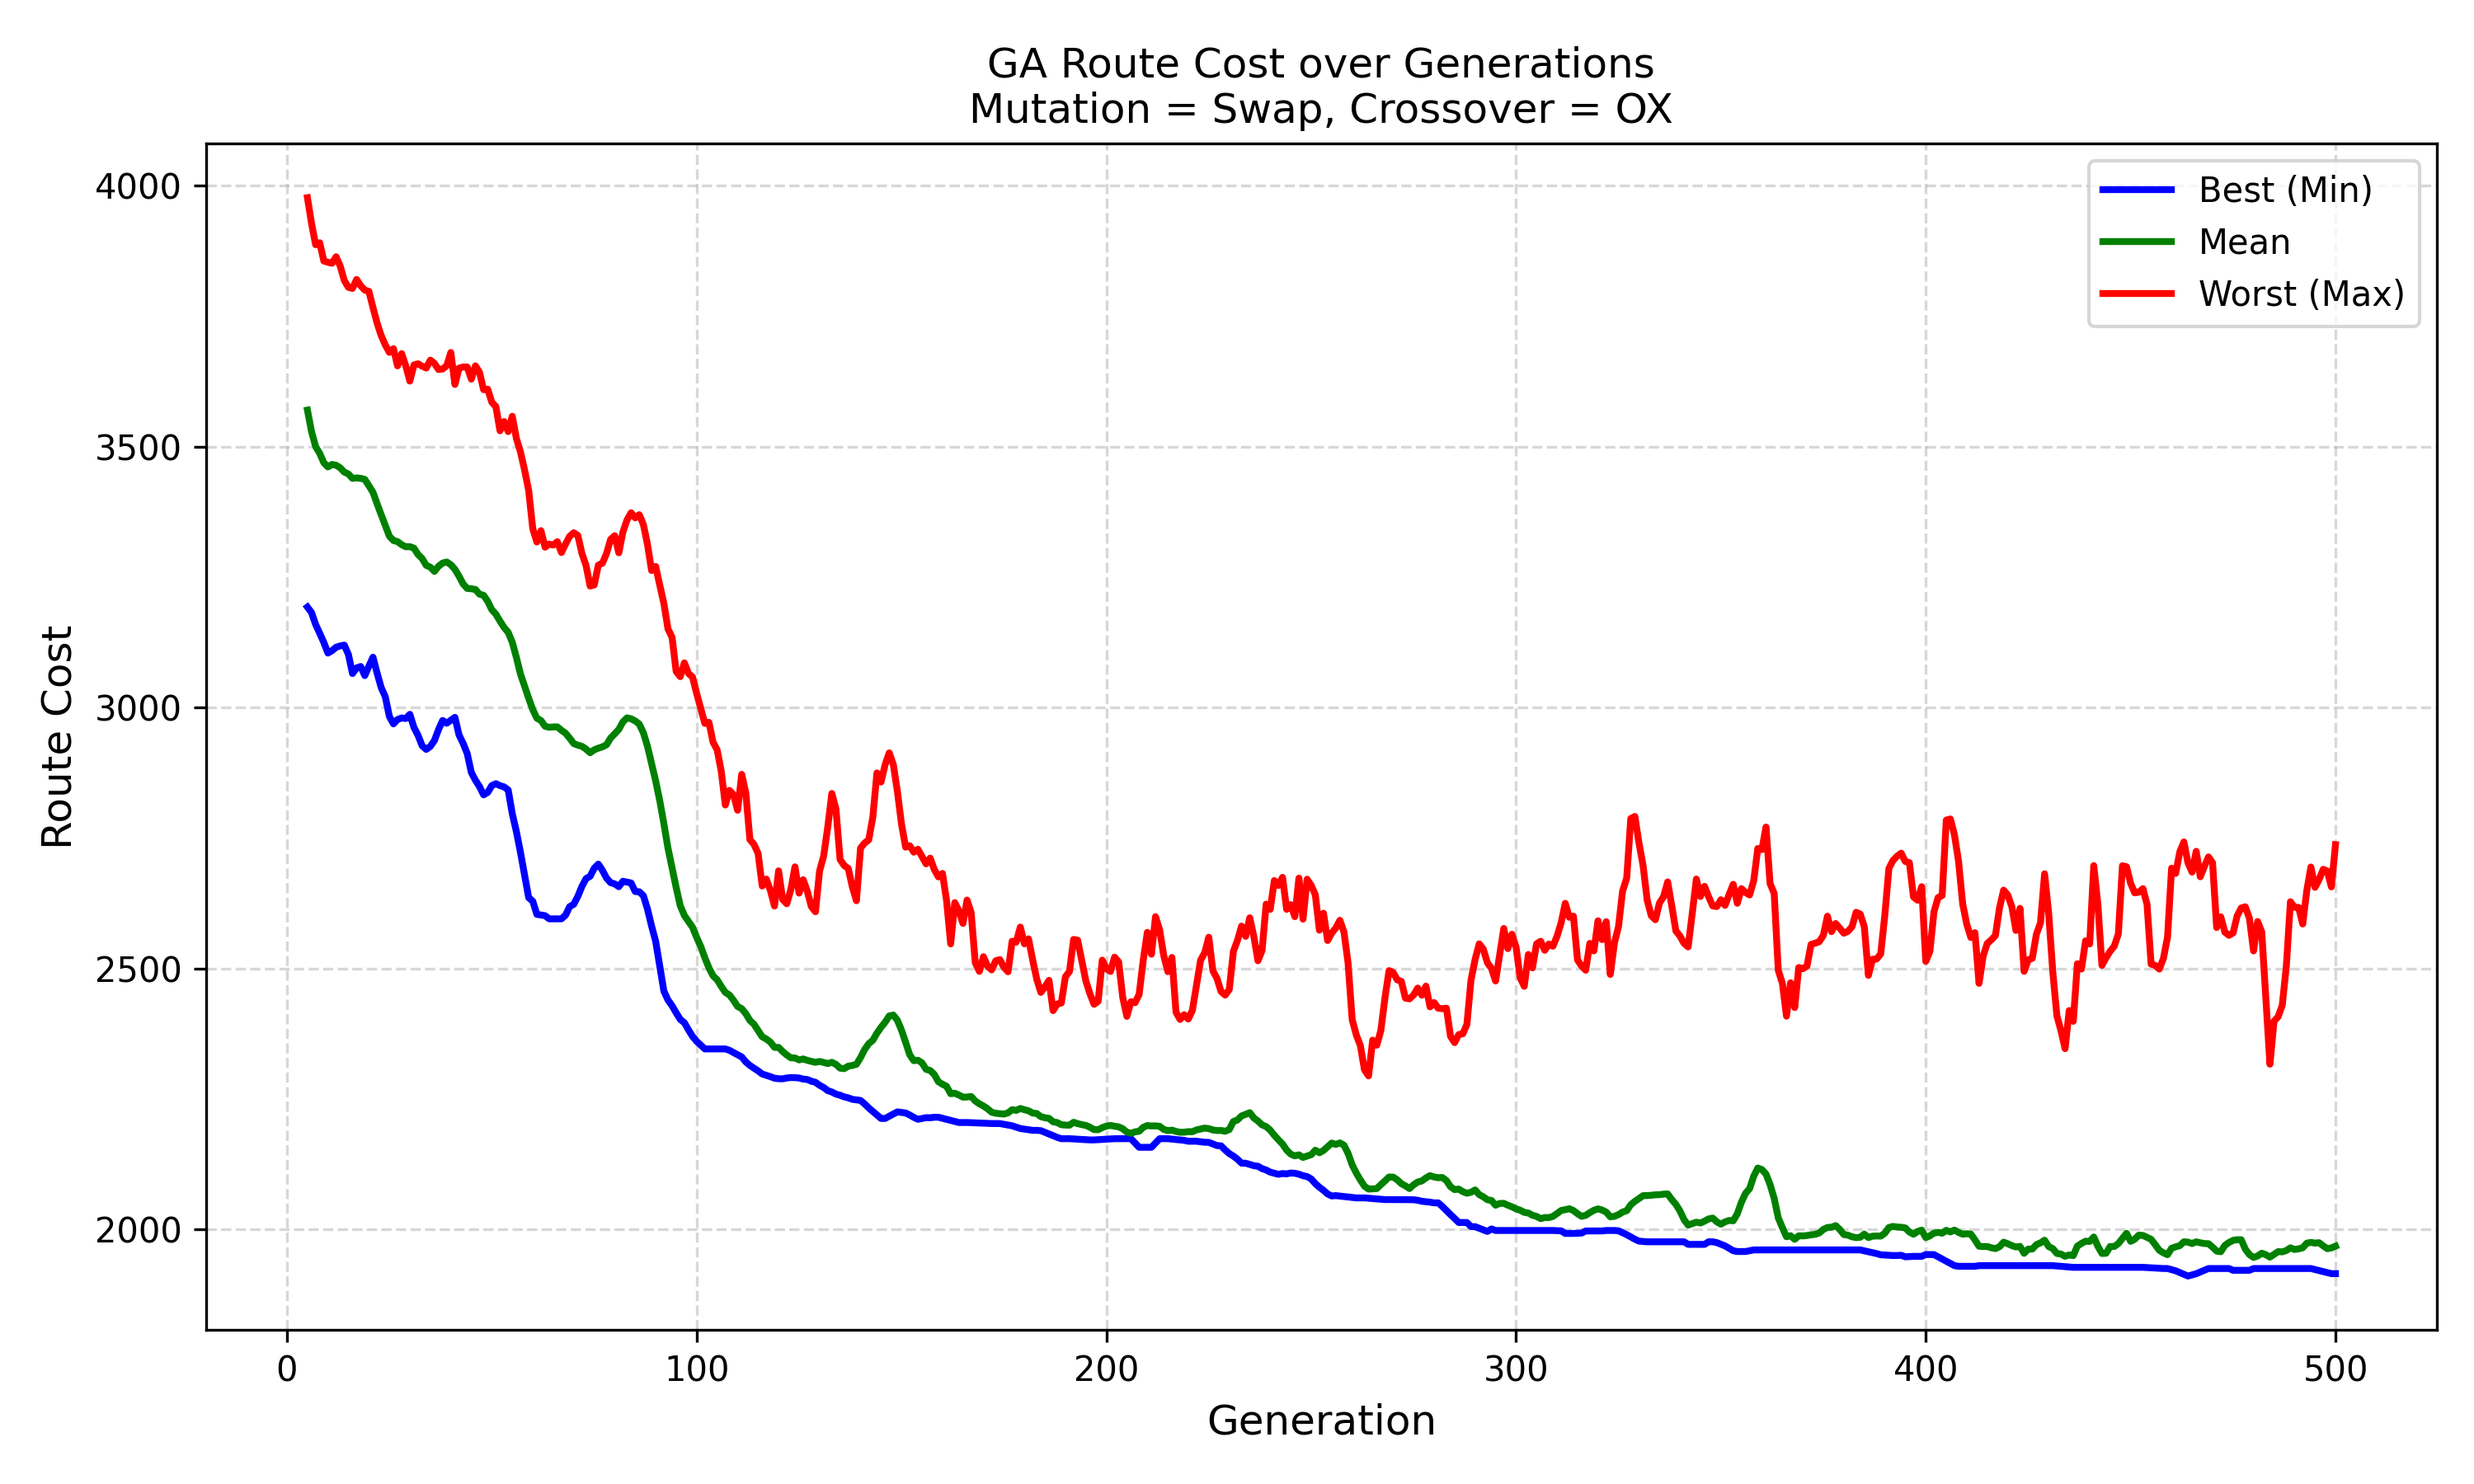
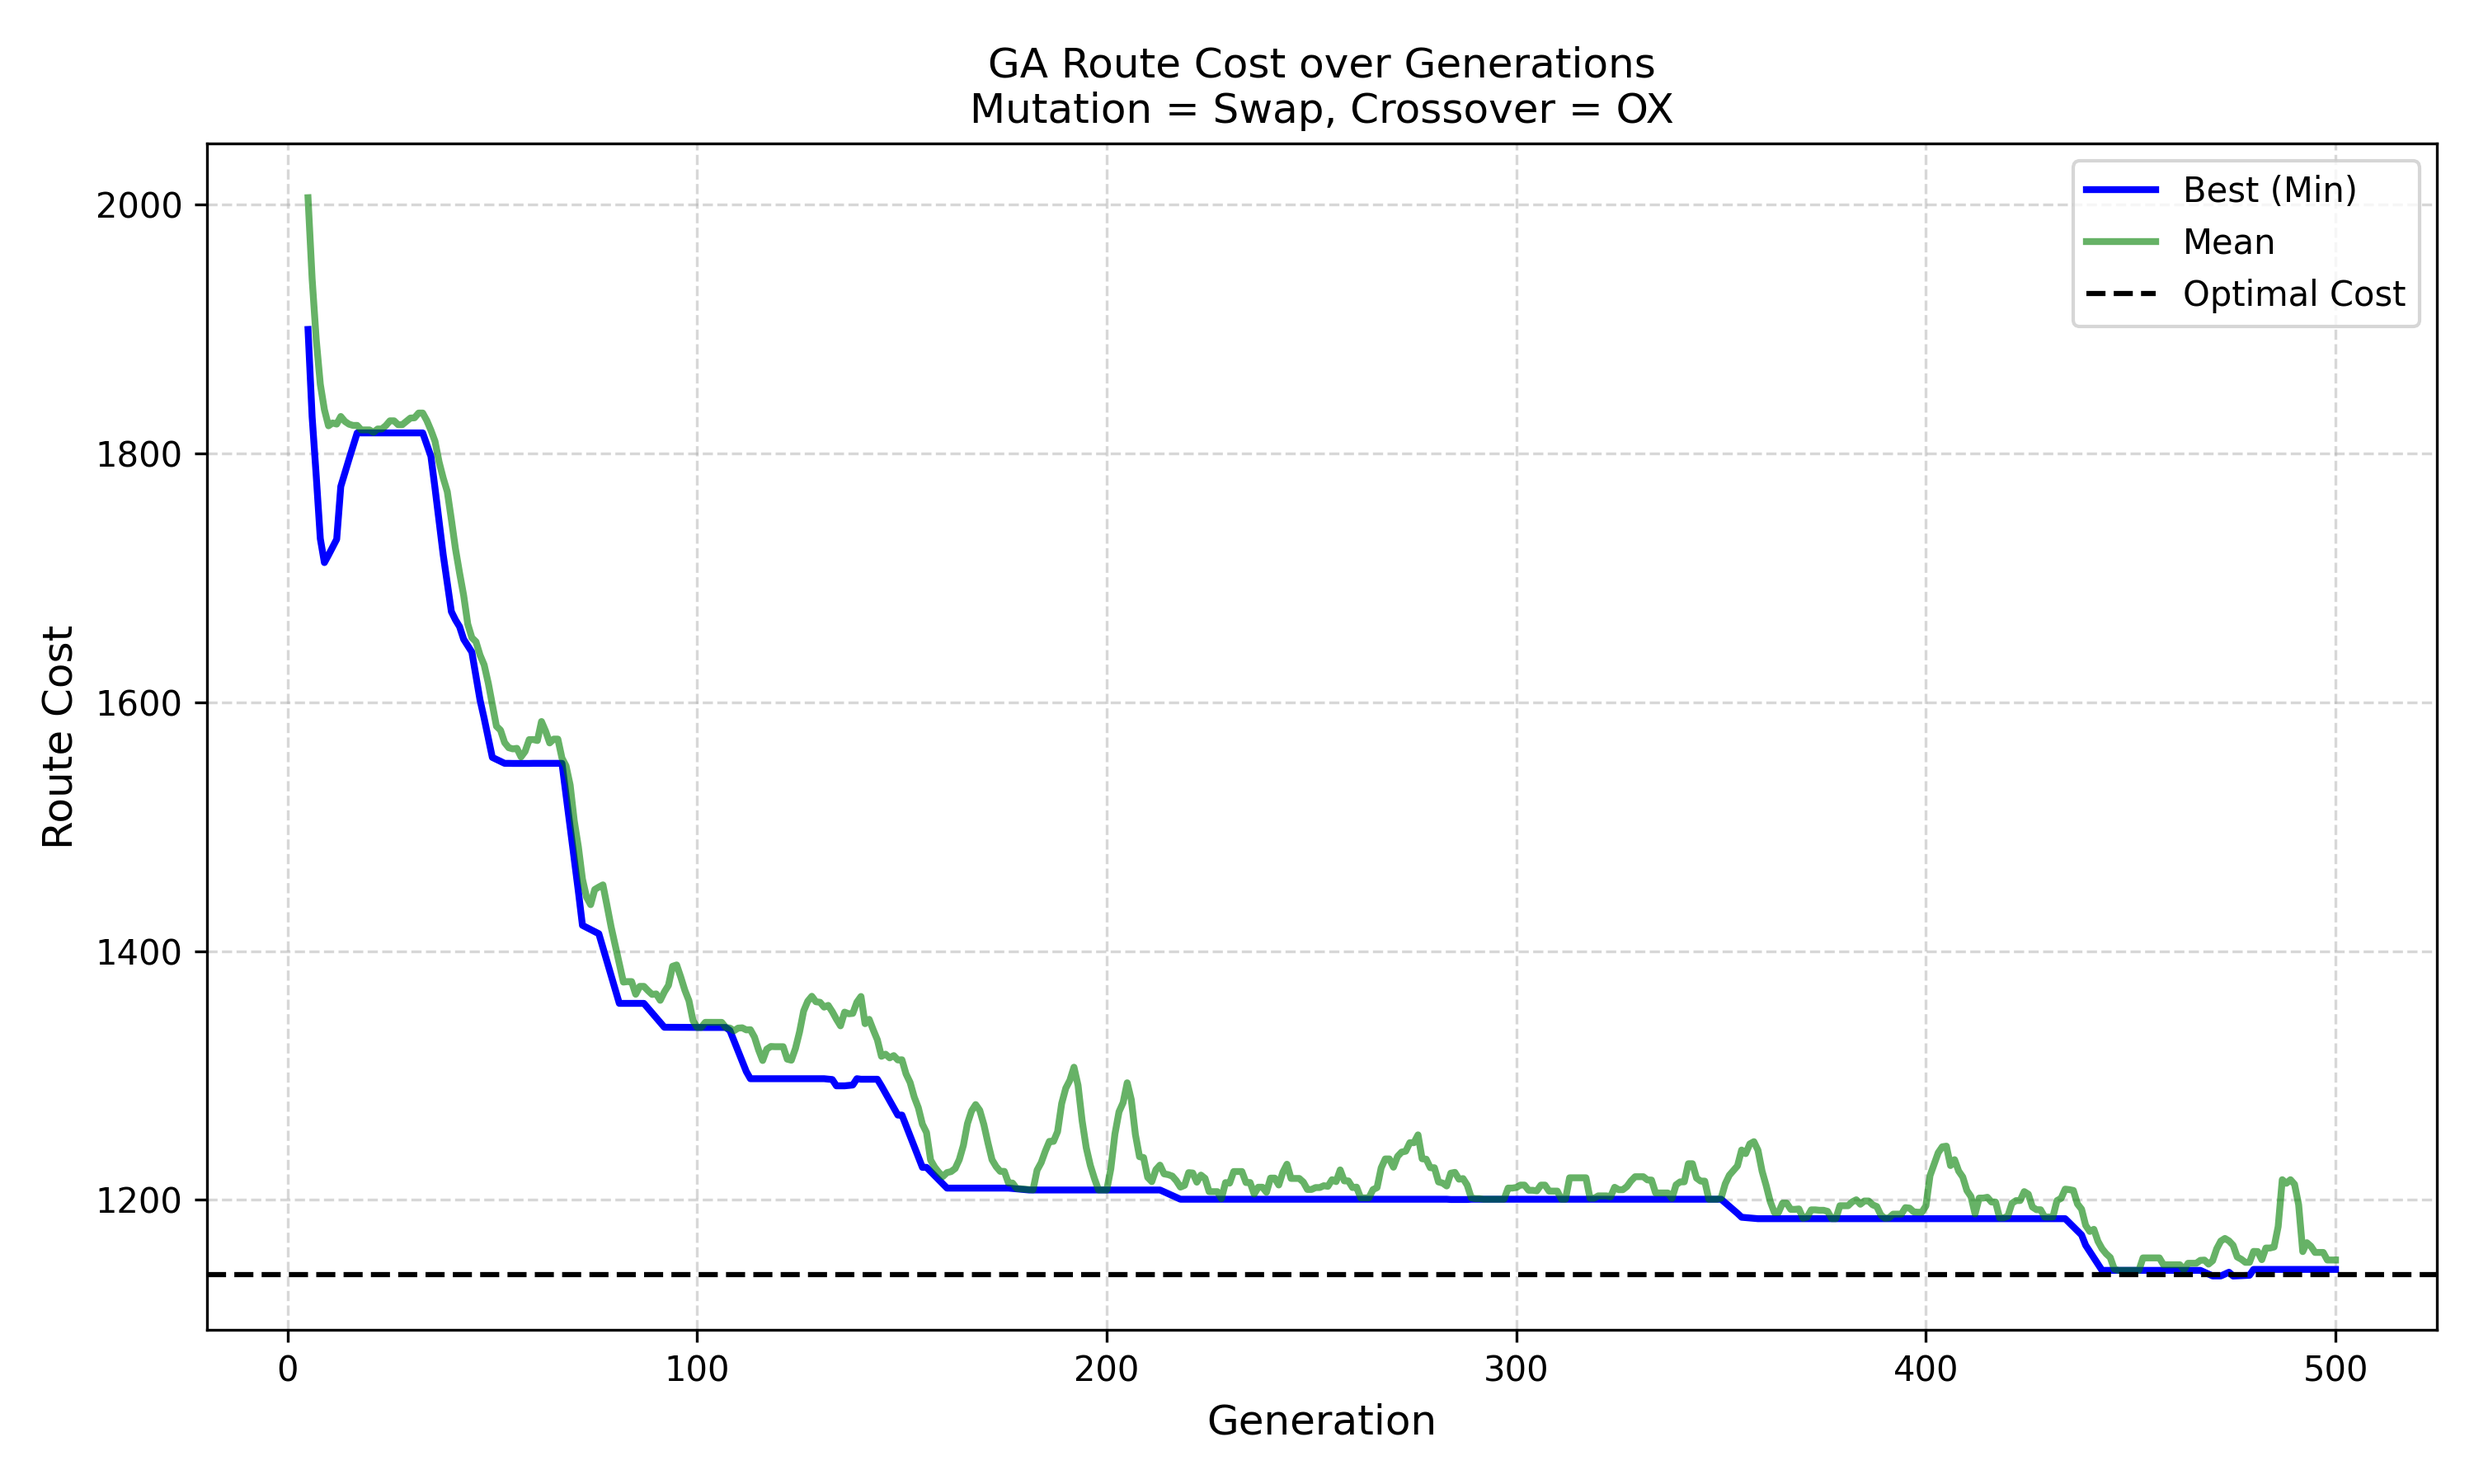
Compare the results
Compare the results

diff --git a/ga_fitness_plotter.py b/ga_fitness_plotter.py
@@ -1,146 +1,26 @@
-import os
-import csv
 import numpy as np
 import matplotlib.pyplot as plt
 from cvrp_solver import CVRPData
-from greedy_algorithm import GreedyCVRP
-from random_algorithm import RandomSearchCVRP
-from tabu_algorithm import TabuSearchCVRP
 from genetic_algorithm import GeneticAlgorithmCVRP
-
-# Paths to data files
-DATA_FOLDER = "data"
-OPTIMAL_FOLDER = "data/optimal_data"
-
-# List all VRP files in the data directory
-vrp_files = [f for f in os.listdir(DATA_FOLDER) if f.endswith(".vrp")]
-
-# Store results for printing
-results = []
-
-# Prepare CSV file
-os.makedirs("results", exist_ok=True)
-COMPARISON_CSV = "results/algorithm_comparison_results.csv"
-
-# Write header
-with open(COMPARISON_CSV, mode="w", newline="") as file:
-    writer = csv.writer(file)
-    writer.writerow([
-        "File Name", "Optimal", "Greedy",
-        "Rand Best", "Rand Worst", "Rand Avg", "Rand Std",
-        "Tabu Best", "Tabu Worst", "Tabu Avg", "Tabu Std",
-        "GA Best", "GA Worst", "GA Avg", "GA Std"
-    ])
-
-# Function to read optimal cost from a file
-def read_optimal_cost(file_path):
-    try:
-        with open(file_path, "r") as file:
-            lines = file.readlines()
-            for line in lines:
-                if "Cost" in line:
-                    return float(line.split()[-1])
-    except FileNotFoundError:
-        return None
-    return None
 
 # Optional: smooth the curve using a moving average
 def smooth(values, window=5):
     return np.convolve(values, np.ones(window)/window, mode='valid')
 
-# Process each VRP file
-for file_name in vrp_files:
-    file_path = os.path.join(DATA_FOLDER, file_name)
-    optimal_file_path = os.path.join(OPTIMAL_FOLDER, file_name)
+# Load data
+cvrp_data = CVRPData("data/A-n32-k5.vrp")
+optimal_cost = 1140
 
-    cvrp_data = CVRPData(file_path)
-
-    # Greedy (single run only)
-    greedy_solver = GreedyCVRP(cvrp_data)
-    _, greedy_distance = greedy_solver.run()
-
-    # Random Search (already includes stats)
-    random_solver = RandomSearchCVRP(cvrp_data, num_iterations=100)
-    _, best_rd, worst_rd, avg_rd, std_rd = random_solver.run()
-
-    # Tabu Search (returns all stats)
-    tabu_solver = TabuSearchCVRP(cvrp_data, max_iterations=100)
-    tabu_stats = tabu_solver.run(runs=10)
-
-    # Genetic Algorithm (returns all stats)
-    ga_solver = GeneticAlgorithmCVRP(
-        cvrp_data,
-        population_size=50,
-        generations=10,
-        crossover_prob=0.8,
-        mutation_prob=0.1
-    )
-    ga_stats = ga_solver.run(runs=100)
-
-    # Read optimal cost
-    optimal_cost = read_optimal_cost(optimal_file_path)
-
-    # Store all results
-    results.append({
-        "file": file_name,
-        "optimal_cost": optimal_cost if optimal_cost else "N/A",
-        "greedy_distance": greedy_distance,
-
-        "best_random_distance": best_rd,
-        "worst_random_distance": worst_rd,
-        "avg_random_distance": avg_rd,
-        "std_random_distance": std_rd,
-
-        "tabu_best": tabu_stats["best"],
-        "tabu_worst": tabu_stats["worst"],
-        "tabu_avg": tabu_stats["avg"],
-        "tabu_std": tabu_stats["std"],
-
-        "ga_best": ga_stats["best"],
-        "ga_worst": ga_stats["worst"],
-        "ga_avg": ga_stats["avg"],
-        "ga_std": ga_stats["std"]
-    })
-
-# Print results
-print("\n========== FINAL RESULTS ==========")
-print(f"{'File Name':<15}{'Optimal':<10}{'Greedy':<10}"
-      f"{'Rand Best':<12}{'Rand Worst':<12}{'Rand Avg':<12}{'Rand Std':<12}"
-      f"{'Tabu Best':<12}{'Tabu Worst':<12}{'Tabu Avg':<12}{'Tabu Std':<12}"
-      f"{'GA Best':<12}{'GA Worst':<12}{'GA Avg':<12}{'GA Std':<12}")
-print("-" * 180)
-
-# Save results to CSV
-with open(COMPARISON_CSV, mode="a", newline="") as file:
-    writer = csv.writer(file)
-
-    for r in results:
-        print(f"{r['file']:<15}{r['optimal_cost']:<10}{r['greedy_distance']:<10.2f}"
-              f"{r['best_random_distance']:<12.2f}{r['worst_random_distance']:<12.2f}{r['avg_random_distance']:<12.2f}{r['std_random_distance']:<12.2f}"
-              f"{r['tabu_best']:<12.2f}{r['tabu_worst']:<12.2f}{r['tabu_avg']:<12.2f}{r['tabu_std']:<12.2f}"
-              f"{r['ga_best']:<12.2f}{r['ga_worst']:<12.2f}{r['ga_avg']:<12.2f}{r['ga_std']:<12.2f}")
-
-        writer.writerow([
-            r['file'], r['optimal_cost'], r['greedy_distance'],
-            r['best_random_distance'], r['worst_random_distance'], r['avg_random_distance'], r['std_random_distance'],
-            r['tabu_best'], r['tabu_worst'], r['tabu_avg'], r['tabu_std'],
-            r['ga_best'], r['ga_worst'], r['ga_avg'], r['ga_std']
-        ])
-
-print("\n✅ Comparison results saved to 'results/' folder!")
-
-# Advanced plot for GA results (optional)
-cvrp_data = CVRPData("data/A-n60-k9.vrp")
-optimal_cost = 1140  # Replace with real value
-
-generations = 500
-population_size = 50
+# Configs to compare
 configs = [
     {"mutation": "swap", "crossover": "OX"},
     {"mutation": "swap", "crossover": "PMX"},
     {"mutation": "inversion", "crossover": "OX"},
     {"mutation": "inversion", "crossover": "PMX"},
 ]
+
+generations = 500
+population_size = 5
 
 for cfg in configs:
     ga = GeneticAlgorithmCVRP(
@@ -154,6 +34,7 @@ for cfg in configs:
     )
 
     population = ga.initialize_population()
+
     min_fitness, mean_fitness = [], []
 
     for _ in range(generations):
@@ -170,12 +51,12 @@ for cfg in configs:
             new_population.append(child)
         population = new_population
 
-    # Smooth the data
+    # Smooth the data (optional)
     smooth_window = 5
     gens = np.arange(1, generations + 1)
     min_sm = smooth(min_fitness, smooth_window)
     mean_sm = smooth(mean_fitness, smooth_window)
-    gens_sm = gens[smooth_window - 1:]
+    gens_sm = gens[smooth_window - 1:]  # Align with smoothed data
 
     # Plot
     plt.figure(figsize=(10, 6))
@@ -191,5 +72,5 @@ for cfg in configs:
     plt.legend(loc="upper right", fontsize=10)
     plt.grid(True, linestyle="--", alpha=0.5)
     plt.tight_layout()
-    plt.savefig(f"results/ga_fitness_plot_{cfg['mutation']}_{cfg['crossover']}.png", dpi=300)
+    plt.savefig(f"ga_fitness_plot_{cfg['mutation']}_{cfg['crossover']}.png", dpi=300)
     plt.show()

diff --git a/run_all_algorithms.py b/run_all_algorithms.py
@@ -1,6 +1,5 @@
 import os
 import csv
-import numpy as np
 from cvrp_solver import CVRPData
 from greedy_algorithm import GreedyCVRP
 from random_algorithm import RandomSearchCVRP
@@ -66,7 +65,7 @@ for file_name in vrp_files:
     ga_solver = GeneticAlgorithmCVRP(
         cvrp_data,
         population_size=50,
-        generations=10,
+        generations=500,
         crossover_prob=0.8,
         mutation_prob=0.1
     )
